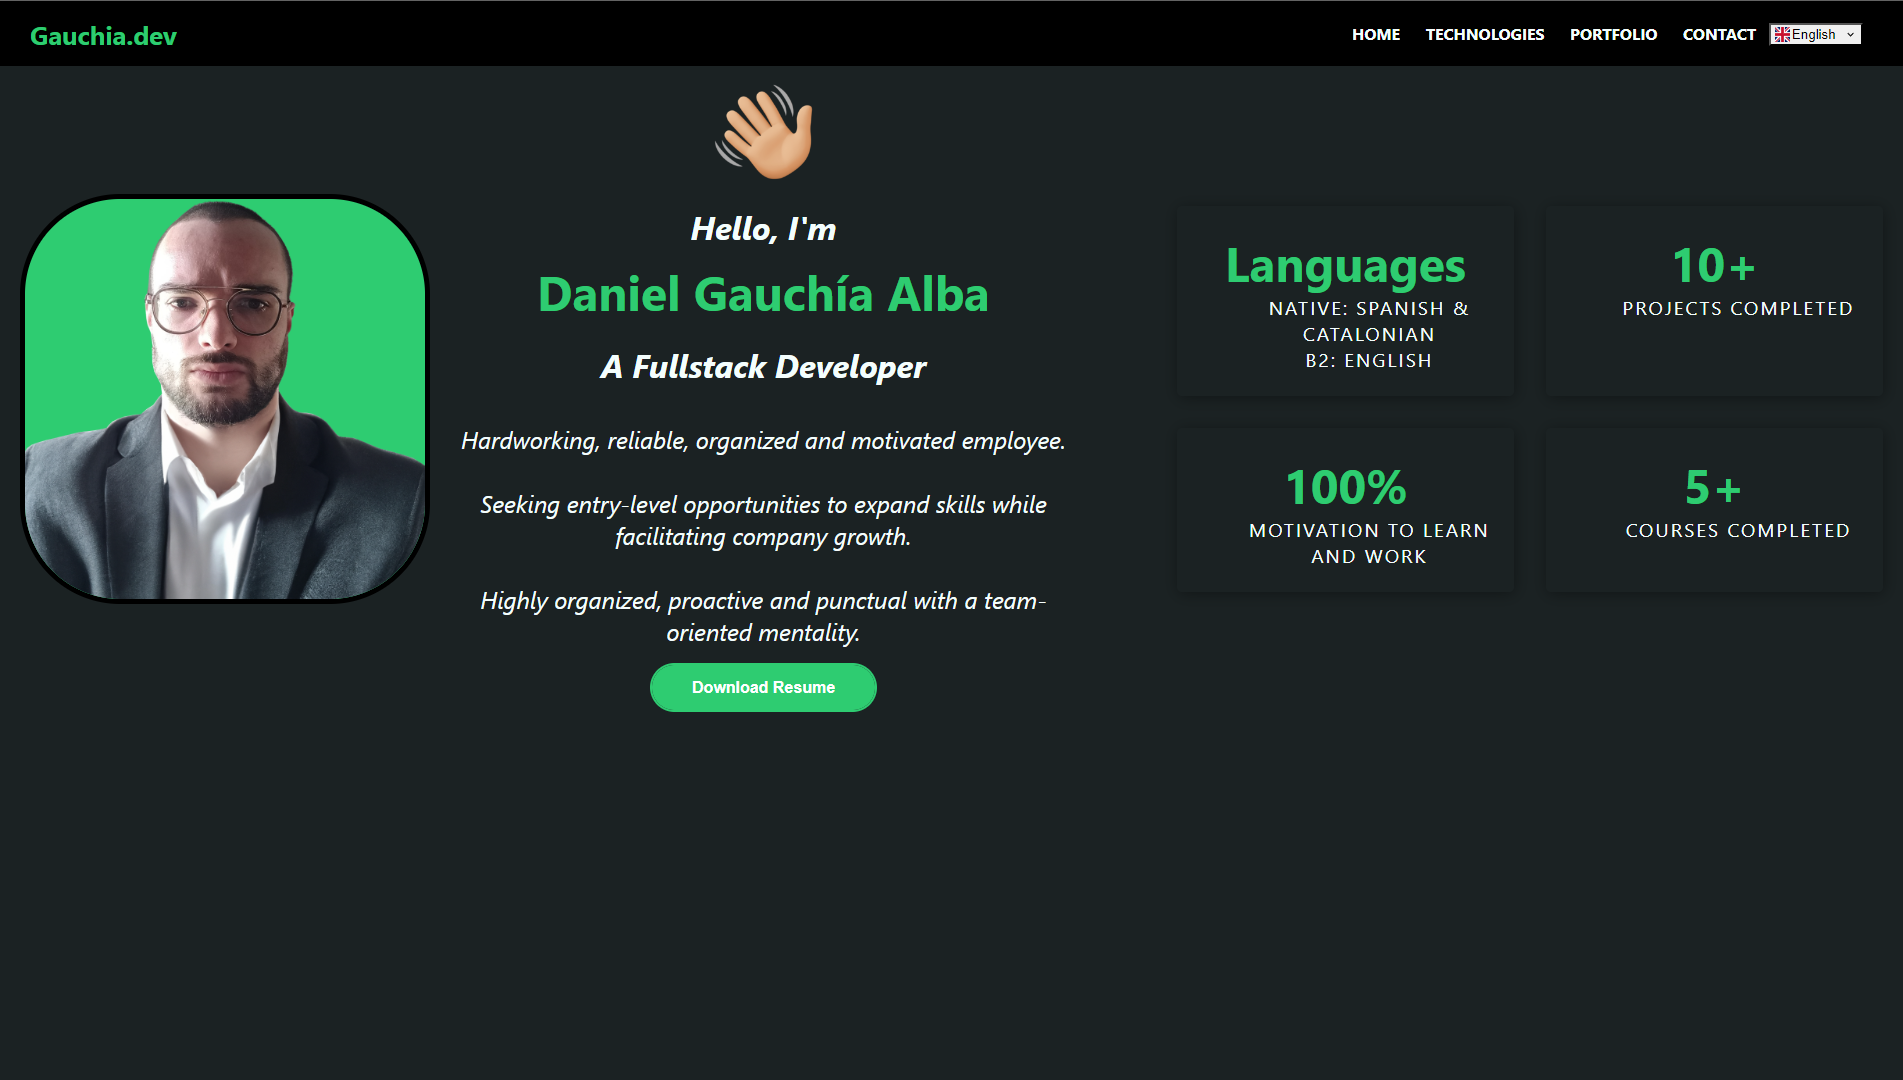
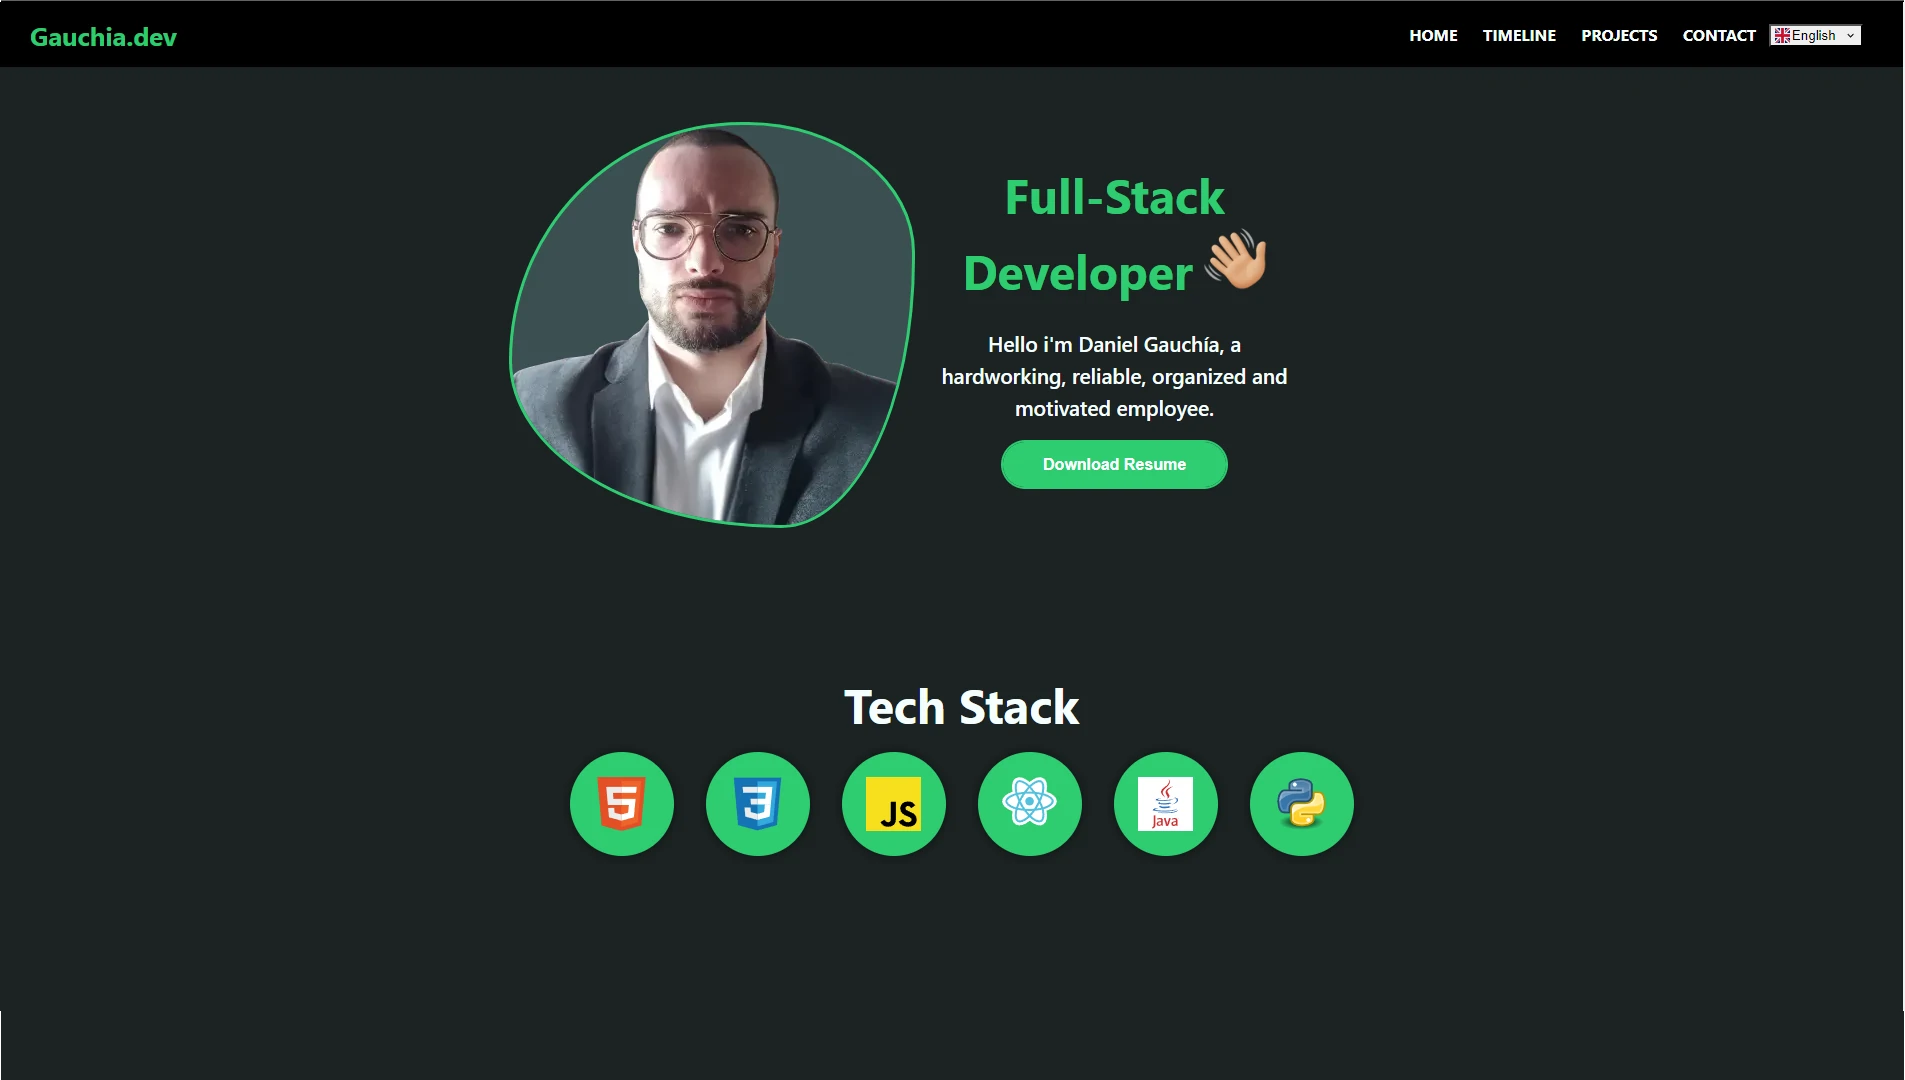
typos and improvements

diff --git a/src/components/Portfolio.js b/src/components/Portfolio.js
@@ -81,38 +81,40 @@ function Portfolio() {
 
 	const getSubtext = () => {
 		if (language === "English") {
-			return (
-				<div className="subtext">
-					{slides[currentIndex].subtext_en}
-				</div>
-			);
+			return <div className='subtext'>{slides[currentIndex].subtext_en}</div>;
 		} else if (language === "Español") {
-			return (
-				<div className="subtext">
-					{slides[currentIndex].subtext_es}
-				</div>
-			);
+			return <div className='subtext'>{slides[currentIndex].subtext_es}</div>;
 		}
 		return "";
 	};
 
 	const github = () => {
 		if (slides[currentIndex].link !== "") {
-			return (
-				
-				<>
-				<span>
-					<FontAwesomeIcon
-						className='icon'
-						icon='fa-brands fa-github'
-					/>
-				</span>
-				<div className='info'>
-					<h3>Github</h3>
-					<a href={slides[currentIndex].link}>Source Code </a>
-				</div>
-				</>
-			);
+			if (language === "English") {
+				return (
+					<>
+						<span>
+							<FontAwesomeIcon className='icon' icon='fa-brands fa-github' />
+						</span>
+						<div className='info'>
+							<h3>Github</h3>
+							<a href={slides[currentIndex].link}>Source Code </a>
+						</div>
+					</>
+				);
+			} else if (language === "Español") {
+				return (
+					<>
+						<span>
+							<FontAwesomeIcon className='icon' icon='fa-brands fa-github' />
+						</span>
+						<div className='info'>
+							<h3>Github</h3>
+							<a href={slides[currentIndex].link}>Código Fuente </a>
+						</div>
+					</>
+				);
+			}
 		} else {
 			return "";
 		}
@@ -120,20 +122,31 @@ function Portfolio() {
 
 	const live = () => {
 		if (slides[currentIndex].live !== "") {
-			return (
-				<>
-				<span>
-					<FontAwesomeIcon
-						className='icon'
-						icon='fas fa-rocket'
-					/>
-				</span>
-				<div className='info'>
-					<h3>Live</h3>
-					<a href={slides[currentIndex].live}>See Live</a>
-				</div>
-				</>
-			);
+			if (language === "English") {
+				return (
+					<>
+						<span>
+							<FontAwesomeIcon className='icon' icon='fas fa-rocket' />
+						</span>
+						<div className='info'>
+							<h3>Live</h3>
+							<a href={slides[currentIndex].live}>See Live</a>
+						</div>
+					</>
+				);
+			} else if (language === "Español") {
+				return (
+					<>
+						<span>
+							<FontAwesomeIcon className='icon' icon='fas fa-rocket' />
+						</span>
+						<div className='info'>
+							<h3>Ejemplo</h3>
+							<a href={slides[currentIndex].live}>Ver Ejemplo</a>
+						</div>
+					</>
+				);
+			}
 		} else {
 			return "";
 		}

diff --git a/src/App.css b/src/App.css
@@ -21,6 +21,19 @@ section {
 	margin-top: 100px;
 }
 
+::-webkit-scrollbar {
+	width: 10px; /* Width of the scrollbar */
+}
+
+::-webkit-scrollbar-thumb {
+	background: var(--color-secondary); /* Color of the scrollbar handle */
+	border-radius: 5px; /* Rounded corners of the handle */
+}
+
+::-webkit-scrollbar-track {
+	background: "transparent"; /* Color of the scrollbar track */
+}
+
 .container {
 	display: flex;
 	align-items: center;
@@ -60,7 +73,6 @@ section {
 }
 
 .hand {
-	
 	width: 4rem;
 	height: 4rem;
 	margin-left: 10px;
@@ -71,12 +83,11 @@ section {
 	transform: rotate(50deg);
 }
 .name {
-	
 	font-weight: bold;
 	color: var(--color-secondary);
 }
 
-#timeline{
+#timeline {
 	margin-top: 130px;
 }
 
@@ -84,7 +95,7 @@ section {
 	display: flex;
 	padding-right: 5rem;
 	flex-direction: column;
-    max-width: 25rem;
+	max-width: 25rem;
 }
 .left-about p {
 	line-height: 2rem;
@@ -101,8 +112,8 @@ section {
 }
 .habilities {
 	font-size: 1.3rem;
-    font-weight: 500;
-    line-height: 1.6;
+	font-weight: 500;
+	line-height: 1.6;
 	margin-top: 10px;
 }
 
@@ -162,6 +173,7 @@ nav ul {
 	z-index: 1;
 }
 .logo {
+	cursor: pointer;
 	margin-left: 10px;
 	font-size: 1.6em;
 	color: var(--color-secondary);
@@ -602,7 +614,7 @@ button[type="submit"]:hover {
 @media (max-width: 509px) {
 	.me {
 		width: 350px;
-		height:  350px;
+		height: 350px;
 	}
 }
 @media (max-width: 750px) {

diff --git a/src/components/Navigation.js b/src/components/Navigation.js
@@ -124,7 +124,7 @@ function Navigation() {
 		if (language === "English") {
 			return (
 				<nav style={navStyle}>
-					<h3 className='logo'>Gauchia.dev</h3>
+					<h3 className='logo' onClick={() => handleLinkClick("about")}>Gauchia.dev</h3>
 					<div className='switch'>
 						<input
 							type='checkbox'
@@ -160,7 +160,7 @@ function Navigation() {
 		} else if (language === "Español") {
 			return (
 				<nav style={navStyle}>
-					<h3 className='logo'>Gauchia.dev</h3>
+					<h3 className='logo' onClick={() => handleLinkClick("about")}>Gauchia.dev</h3>
 
 					<div className='switch'>
 						<input

diff --git a/src/components/About.js b/src/components/About.js
@@ -21,7 +21,7 @@ function About() {
 		if (language === "English") {
 			return (
 				<p>
-					Hello i'm Daniel Gauchía, a hardworking, reliable, organized and
+					Hello I'm Daniel Gauchía, a hardworking, reliable, organized and
 					motivated employee.
 				</p>
 			);
